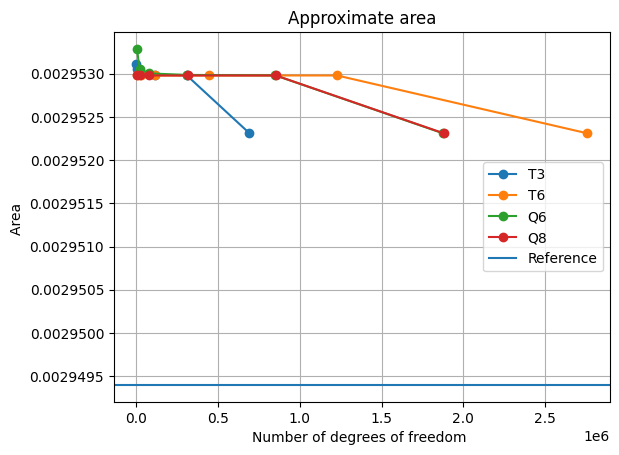
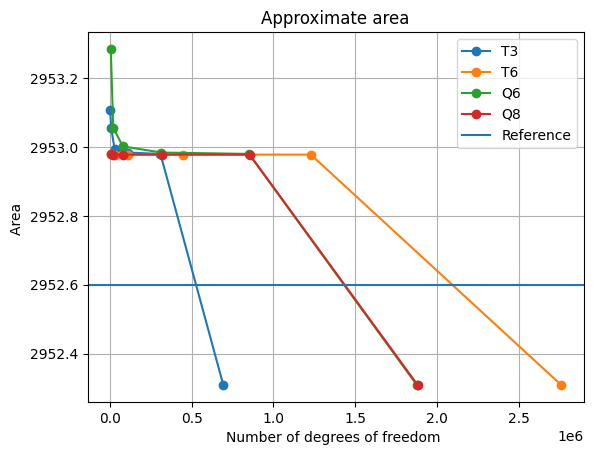
area plots

diff --git a/2_ FEA coarse meshes/plots/graphiques.py b/2_ FEA coarse meshes/plots/graphiques.py
@@ -1,10 +1,10 @@
 import numpy as np
 import matplotlib.pyplot as plt
 
-T3_area = [2.953108e-3, 2.953056e-3, 2.952994e-3, 2.952984e-3, 2.952980e-3, 2.952310e-3]
-T6_area = [2.952980e-3, 2.952978e-3, 2.952978e-3, 2.952978e-3, 2.952978e-3, 2.952309e-3]
-Q6_area = [2.953285e-3, 2.953056e-3, 2.953002e-3, 2.952984e-3, 2.952980e-3, 2.952310e-3]
-Q8_area = [2.952980e-3, 2.952978e-3, 2.952978e-3, 2.952978e-3, 2.952978e-3, 2.952309e-3]
+T3_area = [2.953108e3, 2.953056e3, 2.952994e3, 2.952984e3, 2.952980e3, 2.952310e3]
+T6_area = [2.952980e3, 2.952978e3, 2.952978e3, 2.952978e3, 2.952978e3, 2.952309e3]
+Q6_area = [2.953285e3, 2.953056e3, 2.953002e3, 2.952984e3, 2.952980e3, 2.952310e3]
+Q8_area = [2.952980e3, 2.952978e3, 2.952978e3, 2.952978e3, 2.952978e3, 2.952309e3]
 
 T3_time = [15, 15, 24, 51, 133, 278]
 T6_time = [16, 17, 37, 168, 493, 545]
@@ -31,7 +31,7 @@ plt.plot(T3_nelem, T3_area, marker='o', label='T3')
 plt.plot(T6_nelem, T6_area, marker='o', label='T6')
 plt.plot(Q6_nelem, Q6_area, marker='o', label='Q6')
 plt.plot(Q8_nelem, Q8_area , marker='o', label='Q8')
-plt.axhline(2.9494e-3 , label='Reference')
+plt.axhline(2.9526e3 , label='Reference')
 
 
 plt.xlabel('Number of elements ')
@@ -45,7 +45,7 @@ plt.plot(T3_ndof, T3_area, marker='o', label='T3')
 plt.plot(T6_ndof, T6_area, marker='o', label='T6')
 plt.plot(Q6_ndof, Q6_area, marker='o', label='Q6')
 plt.plot(Q8_ndof, Q8_area , marker='o', label='Q8')
-plt.axhline(2.9494e-3 , label='Reference')
+plt.axhline(2.9526e3 , label='Reference')
 
 
 plt.xlabel('Number of degrees of freedom ')
